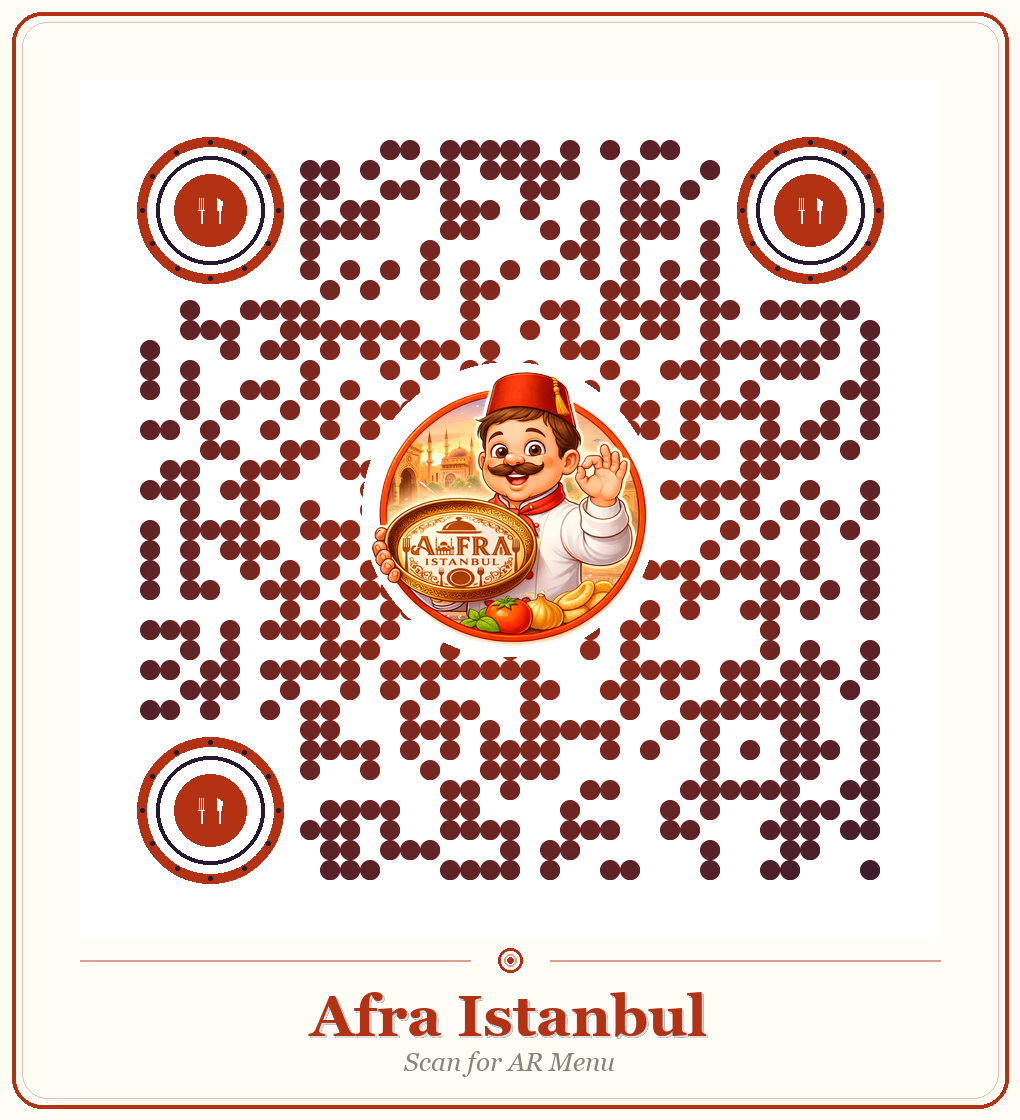
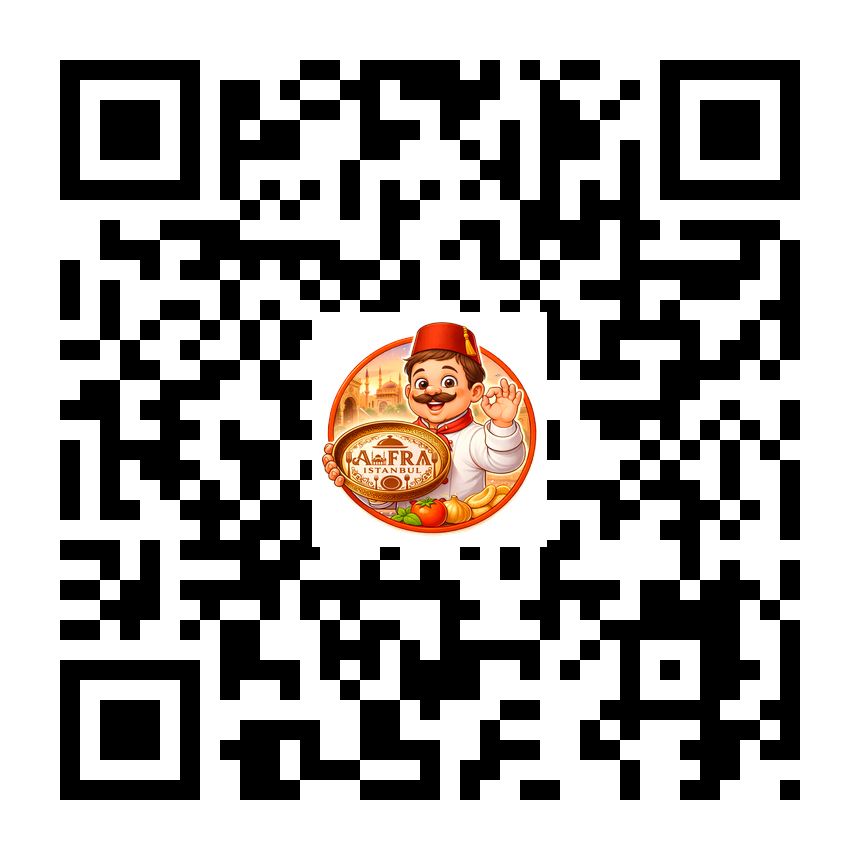
new simple black QR code for Afra Istanbul

diff --git a/generate_qr_afra.py b/generate_qr_afra.py
@@ -1,11 +1,7 @@
 import qrcode
-from qrcode.image.styledpil import StyledPilImage
-from qrcode.image.styles.moduledrawers.pil import CircleModuleDrawer
-from qrcode.image.styles.colormasks import RadialGradiantColorMask
-from PIL import Image, ImageDraw, ImageFont, ImageFilter
-import math
+from PIL import Image, ImageDraw
 
-# === 1. QR код с круглыми точками ===
+# === 1. Обычный чёрный QR код ===
 qr = qrcode.QRCode(
     version=5,
     error_correction=qrcode.constants.ERROR_CORRECT_H,
@@ -15,172 +11,28 @@ qr = qrcode.QRCode(
 qr.add_data('https://armenu.shumtuber.uz/afra.html')
 qr.make(fit=True)
 
-# Цвета Afra Istanbul — тёплые красно-коричневые
-color_main = (180, 50, 20)
-color_dark = (40, 25, 50)
-
-qr_img = qr.make_image(
-    image_factory=StyledPilImage,
-    module_drawer=CircleModuleDrawer(),
-    color_mask=RadialGradiantColorMask(
-        back_color=(255, 255, 255),
-        center_color=color_main,
-        edge_color=color_dark,
-    ),
-).convert("RGBA")
-
+qr_img = qr.make_image(fill_color="black", back_color="white").convert("RGBA")
 qr_w, qr_h = qr_img.size
-box = 20
-border = 3
 
-# === 2. Заменяем угловые квадраты на тарелочки ===
-def draw_plate_finder(img, center_x, center_y, size):
-    plate = Image.new("RGBA", (size, size), (0, 0, 0, 0))
-    pd = ImageDraw.Draw(plate)
-    cx, cy = size // 2, size // 2
-    r = size // 2 - 2
+# === 2. Логотип Afra в центре ===
+logo_src = Image.open("J:/Cloude/3D AXROR/turkish-chef.png").convert("RGBA")
+logo_size = int(qr_w * 0.25)
+logo_src = logo_src.resize((logo_size, logo_size), Image.LANCZOS)
 
-    pd.ellipse([cx - r, cy - r, cx + r, cy + r], outline=color_main, width=int(r * 0.14))
-    mr = int(r * 0.75)
-    pd.ellipse([cx - mr, cy - mr, cx + mr, cy + mr], outline=color_dark, width=int(r * 0.06))
-    ir = int(r * 0.5)
-    pd.ellipse([cx - ir, cy - ir, cx + ir, cy + ir], fill=color_main)
+pad = 10
+mask_w = logo_size + pad * 2
+mask_h = logo_size + pad * 2
+center_bg = Image.new("RGBA", (mask_w, mask_h), (255, 255, 255, 255))
 
-    fork_h = int(ir * 0.7)
-    fx = cx - int(ir * 0.25)
-    fy = cy - fork_h // 2
-    for t in range(-2, 3, 2):
-        pd.line([(fx + t, fy), (fx + t, fy + fork_h // 2)], fill="white", width=1)
-    pd.line([(fx - 3, fy + fork_h // 2), (fx + 3, fy + fork_h // 2)], fill="white", width=1)
-    pd.line([(fx, fy + fork_h // 2), (fx, fy + fork_h)], fill="white", width=2)
+bg_x = (qr_w - mask_w) // 2
+bg_y = (qr_h - mask_h) // 2
+qr_img.paste(center_bg, (bg_x, bg_y))
 
-    kx = cx + int(ir * 0.25)
-    ky = cy - fork_h // 2
-    pd.polygon([(kx - 2, ky), (kx + 3, ky + int(fork_h * 0.15)),
-                (kx + 2, ky + fork_h // 2), (kx - 2, ky + fork_h // 2)], fill="white")
-    pd.line([(kx, ky + fork_h // 2), (kx, ky + fork_h)], fill="white", width=2)
+paste_x = (qr_w - logo_size) // 2
+paste_y = (qr_h - logo_size) // 2
+qr_img.paste(logo_src, (paste_x, paste_y), logo_src)
 
-    dot_r = int(r * 0.04)
-    for i in range(12):
-        angle = math.radians(i * 30)
-        dx = cx + int((r - int(r * 0.07)) * math.cos(angle))
-        dy = cy + int((r - int(r * 0.07)) * math.sin(angle))
-        pd.ellipse([dx - dot_r, dy - dot_r, dx + dot_r, dy + dot_r], fill=color_dark)
-
-    px = center_x - size // 2
-    py = center_y - size // 2
-    bg = Image.new("RGBA", (size + 8, size + 8), (255, 255, 255, 255))
-    img.paste(bg, (px - 4, py - 4))
-    img.paste(plate, (px, py), plate)
-
-finder_size_modules = 7
-finder_px = finder_size_modules * box
-
-cx1 = border * box + finder_px // 2
-cy1 = border * box + finder_px // 2
-
-matrix_size = qr.modules_count
-cx2 = (border + matrix_size - finder_size_modules) * box + finder_px // 2
-cy2 = border * box + finder_px // 2
-
-cx3 = border * box + finder_px // 2
-cy3 = (border + matrix_size - finder_size_modules) * box + finder_px // 2
-
-draw_plate_finder(qr_img, cx1, cy1, finder_px + 10)
-draw_plate_finder(qr_img, cx2, cy2, finder_px + 10)
-draw_plate_finder(qr_img, cx3, cy3, finder_px + 10)
-
-
-# === 3. Вставляем повара-картинку в центр ===
-chef_src = Image.open("J:/Cloude/3D AXROR/turkish-chef.png").convert("RGBA")
-
-# Размер повара — 30% от QR
-chef_size = int(qr_w * 0.32)
-chef_src = chef_src.resize((chef_size, chef_size), Image.LANCZOS)
-
-# Белый круглый фон под повара чтобы QR точки не мешали
-mask_size = chef_size + 20
-center_bg = Image.new("RGBA", (mask_size, mask_size), (0, 0, 0, 0))
-bg_draw = ImageDraw.Draw(center_bg)
-bg_draw.ellipse([0, 0, mask_size, mask_size], fill=(255, 255, 255, 255))
-
-bg_x = (qr_w - mask_size) // 2
-bg_y = (qr_h - mask_size) // 2
-qr_img.paste(center_bg, (bg_x, bg_y), center_bg)
-
-# Вставляем повара
-paste_x = (qr_w - chef_size) // 2
-paste_y = (qr_h - chef_size) // 2
-qr_img.paste(chef_src, (paste_x, paste_y), chef_src)
-
-
-# === 4. Финальная картинка ===
-margin = 80
-text_area = 130
-final_w = qr_w + margin * 2
-final_h = qr_h + margin + text_area + 50
-
-final_img = Image.new("RGBA", (final_w, final_h), (255, 252, 245))
-df = ImageDraw.Draw(final_img)
-
-df.rounded_rectangle([12, 12, final_w - 12, final_h - 12],
-                      radius=30, outline=color_main, width=4)
-df.rounded_rectangle([22, 22, final_w - 22, final_h - 22],
-                      radius=25, outline=(180, 50, 20, 80), width=1)
-
-qr_x = (final_w - qr_w) // 2
-qr_y = margin
-final_img.paste(qr_img, (qr_x, qr_y), qr_img)
-
-
-# === 5. Ресторанные элементы ===
-color_light = (180, 50, 20, 120)
-
-def draw_plate_small(x, y, size=22):
-    df.ellipse([x - size, y - size, x + size, y + size], outline=color_main, width=3)
-    df.ellipse([x - size + 6, y - size + 6, x + size - 6, y + size - 6],
-               outline=color_light, width=2)
-    df.ellipse([x - 3, y - 3, x + 3, y + 3], fill=color_main)
-
-
-# === 6. Надпись ===
-fonts_to_try = [
-    ("C:/Windows/Fonts/georgiab.ttf", "C:/Windows/Fonts/georgiai.ttf"),
-    ("C:/Windows/Fonts/timesbd.ttf", "C:/Windows/Fonts/timesi.ttf"),
-    ("C:/Windows/Fonts/arialbd.ttf", "C:/Windows/Fonts/ariali.ttf"),
-]
-
-font_main = font_sub = None
-for fb, fr in fonts_to_try:
-    try:
-        font_main = ImageFont.truetype(fb, 58)
-        font_sub = ImageFont.truetype(fr, 26)
-        break
-    except:
-        continue
-if not font_main:
-    font_main = ImageFont.load_default()
-    font_sub = font_main
-
-line_y = qr_y + qr_h + 20
-df.line([80, line_y, final_w // 2 - 40, line_y], fill=color_light, width=2)
-df.line([final_w // 2 + 40, line_y, final_w - 80, line_y], fill=color_light, width=2)
-draw_plate_small(final_w // 2, line_y, size=12)
-
-text = "Afra Istanbul"
-bbox = df.textbbox((0, 0), text, font=font_main)
-tw = bbox[2] - bbox[0]
-tx = (final_w - tw) // 2
-ty = line_y + 22
-df.text((tx + 2, ty + 2), text, fill=(0, 0, 0, 35), font=font_main)
-df.text((tx, ty), text, fill=color_main, font=font_main)
-
-sub = "Scan for AR Menu"
-bbox2 = df.textbbox((0, 0), sub, font=font_sub)
-stw = bbox2[2] - bbox2[0]
-df.text(((final_w - stw) // 2, ty + 65), sub, fill=(140, 130, 120), font=font_sub)
-
-# === Сохраняем ===
+# === 3. Сохраняем ===
 output = "J:/Cloude/3D AXROR/qr-code-afra-new.png"
-final_img.save(output, "PNG", quality=95)
-print(f"Done: {output} ({final_img.size[0]}x{final_img.size[1]})")
+qr_img.save(output, "PNG", quality=95)
+print(f"Done: {output} ({qr_img.size[0]}x{qr_img.size[1]})")
